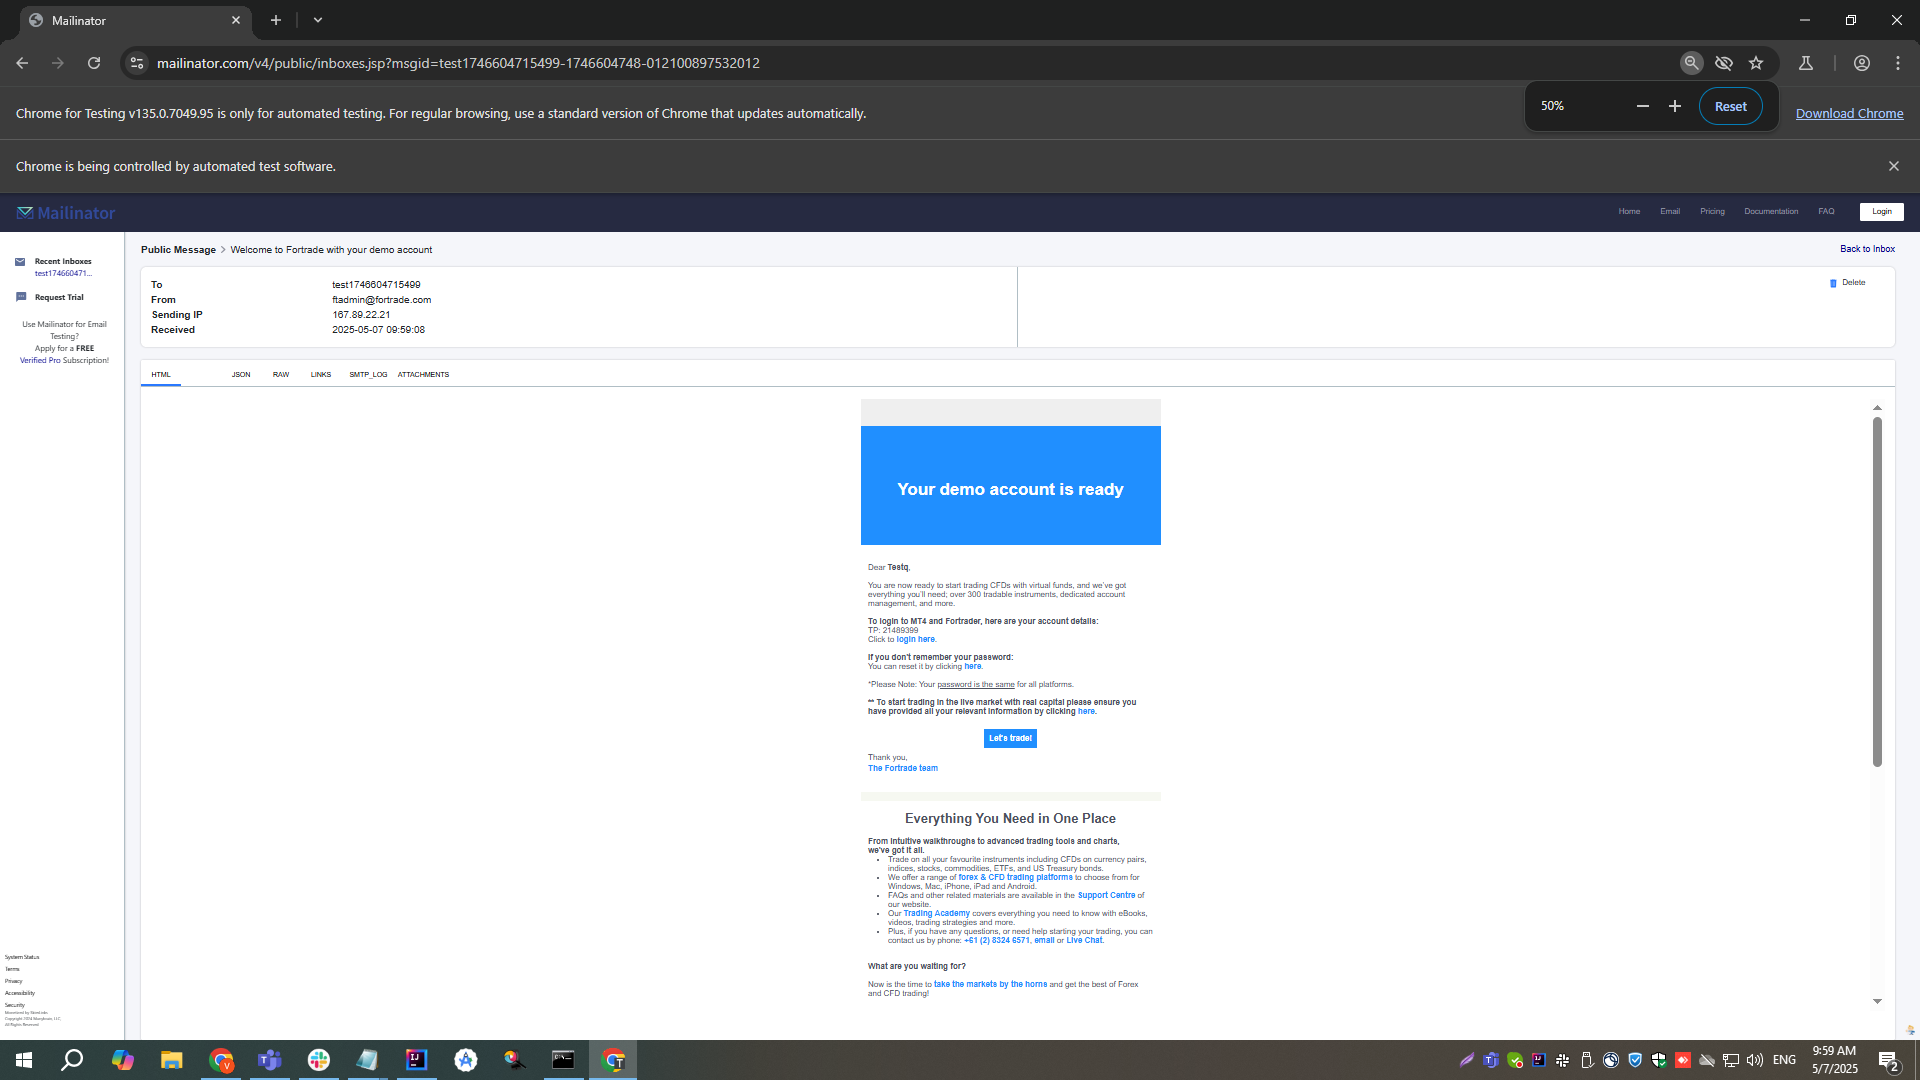
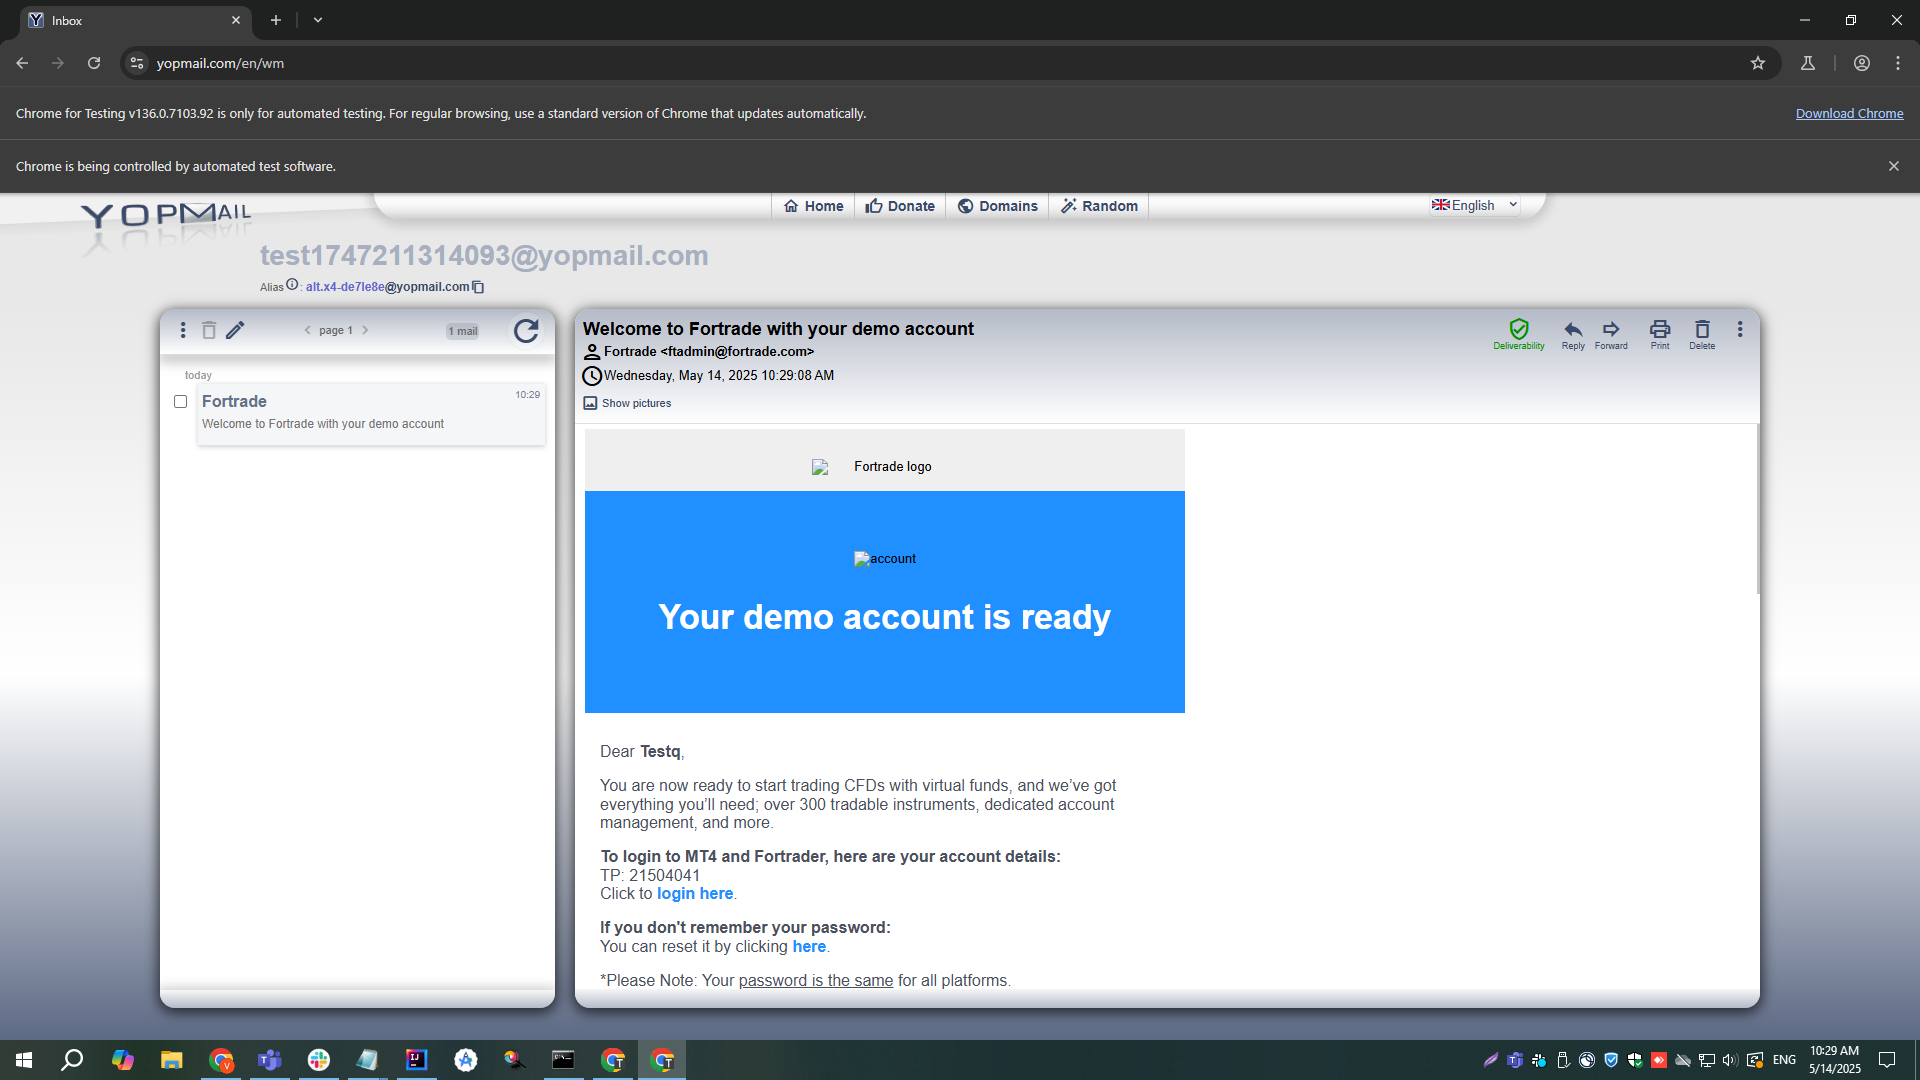
Added yopMailClass and method for checking email (fortrade and fortradeR)

diff --git a/src/main/java/Pages/YopMail.java b/src/main/java/Pages/YopMail.java
@@ -1,8 +1,6 @@
 package Pages;
 
-import org.openqa.selenium.StaleElementReferenceException;
-import org.openqa.selenium.WebDriver;
-import org.openqa.selenium.WebElement;
+import org.openqa.selenium.*;
 import org.openqa.selenium.interactions.Actions;
 import org.openqa.selenium.support.FindBy;
 import org.openqa.selenium.support.PageFactory;
@@ -13,13 +11,15 @@ import org.testng.Assert;
 
 import javax.imageio.ImageIO;
 import java.awt.*;
+import java.awt.Dimension;
+import java.awt.Rectangle;
 import java.awt.event.KeyEvent;
 import java.awt.image.BufferedImage;
 import java.io.File;
 import java.io.IOException;
 import java.time.Duration;
 
-public class MailinatorPage {
+public class YopMail {
     /**
      * PageFactory- koristi se za direktno kreiranje web elemenata. Omogucava nam da sacuvamo veb element bez koricenja
      * chromeDriver.findElement(); Locira elemente na prvi poziv elementa za razliku od chromeDriver.findElement-a koji bi prijavljivao
@@ -31,19 +31,34 @@ public class MailinatorPage {
 
     public WebDriver chromeDriver;
     public WebDriverWait wait;
-    public MailinatorPage(WebDriver chromeDriver) {
+    public YopMail(WebDriver chromeDriver) {
         this.chromeDriver = chromeDriver;
         this.wait = new WebDriverWait(chromeDriver, Duration.ofSeconds(10));
         PageFactory.initElements(chromeDriver,this);
     }
-    @FindBy(xpath = "//input[@id='search']")
+    @FindBy(xpath = "//input[@class='ycptinput']")
     public WebElement search;
 
-    @FindBy(xpath = "//button[contains(text(),'GO')]")
+    @FindBy(xpath = "//div[@id='refreshbut']")
     public WebElement goBtn;
 
-    @FindBy(xpath = "//td[contains(text(),'Fortrade')][1]")
+    @FindBy(xpath = "//iframe[@id='ifinbox']")
+    public WebElement inboxFrame;
+
+    @FindBy(xpath = "//iframe[@id='ifmail']")
+    public WebElement mailFrame;
+
+    @FindBy(xpath = "//div[@class='lmfd']/span[contains(text(), 'Fortrade')]")
     public WebElement emailMessage;
+
+    @FindBy(xpath = "//button[@id='refresh']")
+    public WebElement refreshEmailBtn;
+
+    @FindBy(xpath = "//span[contains(text(), 'Fortrade <ftadmin@fortrade.com>')]")
+    public WebElement fortradeEmail;
+
+    @FindBy(xpath = "//tr/td/b[contains(text(), 'Testq')]")
+    public WebElement testqName;
 
     @FindBy(xpath = "//td[contains(text(),'KapitalRS')][1]")
     public WebElement emailMessageKRS;
@@ -82,13 +97,47 @@ public class MailinatorPage {
         }
     }
 
+    public String getText(WebElement element, String log) {
+        try {
+            wait.until(ExpectedConditions.visibilityOf(element));
+
+            System.out.println("Get text from " + log + " element");
+            return element.getText();
+        } catch (StaleElementReferenceException e) {
+
+            System.out.println("Get text from " + log + " element");
+            return element.getText();
+        }
+    }
+
 
     public void findEmail(String emailValue){
         typeText(search,emailValue,"search input");
-        clickElement(goBtn,"go button");
+        clickElement(goBtn,"go button");/*
         wait.until(ExpectedConditions.visibilityOf(emailMessage));
-        wait.until(ExpectedConditions.elementToBeClickable(emailMessage));
+        wait.until(ExpectedConditions.elementToBeClickable(emailMessage));*/
+        for (int i = 0; i < 3; i++) {
+            try {
+                chromeDriver.switchTo().frame(inboxFrame);
+                //WebElement emailMessage = chromeDriver.findElement(By.xpath("//div[@class='lmfd']/span[contains(text(), 'Fortrade')]"));
+                if (emailMessage.isDisplayed()) {
+                    break; // Exit loop when message appears
+                }
+            } catch (NoSuchElementException e) {
+                // Do nothing — element not yet found
+                if (i==2){
+                    Assert.fail("An email is not found after 3 tries!!!");
+                }
+            }
+
+            chromeDriver.switchTo().defaultContent();
+            clickElement(refreshEmailBtn, "refresh email inbox");
+        }
         clickElement(emailMessage,"received message in mailbox");
+        chromeDriver.switchTo().defaultContent();
+        chromeDriver.switchTo().frame(mailFrame);
+        Assert.assertEquals(getText(fortradeEmail, "getting fortrade email"), "Fortrade <ftadmin@fortrade.com>");
+        Assert.assertEquals(getText(testqName, "getting Testq name"), "Testq");
     }
 
     public void findEmailKRS(String emailValue){

diff --git a/src/test/java/TestsFortradeR/pro_Dark_2024_Lp.java b/src/test/java/TestsFortradeR/pro_Dark_2024_Lp.java
@@ -2,10 +2,7 @@ package TestsFortradeR;
 
 import ConfigureAppium.BaseTest;
 import Faker.TestData;
-import Pages.CrmPage;
-import Pages.FortradeRPage;
-import Pages.HomePage;
-import Pages.MailinatorPage;
+import Pages.*;
 import io.appium.java_client.android.AndroidDriver;
 import io.appium.java_client.screenrecording.CanRecordScreen;
 import org.openqa.selenium.By;
@@ -232,7 +229,8 @@ public class pro_Dark_2024_Lp extends BaseTest {
         fortraderPage.takeScreenshot("Financial Services Commission Mauritius FSC - FortradeR");
     }
 
-    @Test
+    //This method is for Mailinator (now it's not working, so we use Yopmail)
+    /*@Test
     public void emailIsReceivedSuccessfully() throws IOException, AWTException {
         String email = TestData.emailGenerator();
         fortraderPage.accountRegistration("Testq", "Testa", email,
@@ -244,6 +242,21 @@ public class pro_Dark_2024_Lp extends BaseTest {
         mailinator.findEmail(email);
         mailinator.zoomOutMethod();
         mailinator.takeScreenshot("Email is received successfully - FortradeR", mailinator.emailTitle);
+        stopWebBrowser();
+    }*/
+
+    @Test
+    public void emailIsReceivedSuccessfully() throws IOException, AWTException {
+        String email = TestData.emailGenerator();
+        fortraderPage.accountRegistration("Testq", "Testa", email,
+                "381", TestData.numberGenerator(), "25-34", "$15,000-$50,000",
+                "$50,000 – $100,000", "All the above", "Serbian");
+        startChromeBrowserOnDesktop();
+        YopMail yopMail = new YopMail(chromeDriver);
+        chromeDriver.get("https://yopmail.com/en/");
+        yopMail.findEmail(email);
+        yopMail.zoomOutMethod();
+        yopMail.takeScreenshot("Email is received successfully - FortradeR", yopMail.emailTitle);
         stopWebBrowser();
     }
 

diff --git a/src/test/java/TestsFortrade/pro_Dark_2024_Lp.java b/src/test/java/TestsFortrade/pro_Dark_2024_Lp.java
@@ -294,8 +294,9 @@ public class pro_Dark_2024_Lp extends BaseTest {
         fortradePage.assertUrl(fortradePage.fscURL);
         fortradePage.takeScreenshot("Financial Services Commission Mauritius FSC - regulation");
     }
-  
-    @Test
+
+    //This method is for Mailinator (now it's not working, so we use Yopmail)
+    /*@Test
     @Parameters({"regulation", "countryCode"})
     public void emailIsReceivedSuccessfully(String regulation, String countryCode) throws IOException, AWTException {
         String email = TestData.emailGenerator();
@@ -307,6 +308,21 @@ public class pro_Dark_2024_Lp extends BaseTest {
         mailinator.findEmail(email);
         mailinator.zoomOutMethod();
         mailinator.takeScreenshot("Email is received successfully - " + regulation + " regulation", mailinator.emailTitle);
+        stopWebBrowser();
+    }*/
+
+    @Test
+    @Parameters({"regulation", "countryCode"})
+    public void emailIsReceivedSuccessfully(String regulation, String countryCode) throws IOException, AWTException {
+        String email = TestData.emailGenerator();
+        fortradePage.accountRegistration("Testq", "Testa", email, countryCode, TestData.numberGenerator(),
+                "25-34", "$15,000-$50,000", "$50,000 – $100,000", "All the above", "Serbian");
+        startChromeBrowserOnDesktop();
+        YopMail yopMail = new YopMail(chromeDriver);
+        chromeDriver.get("https://yopmail.com/en/");
+        yopMail.findEmail(email);
+        yopMail.zoomOutMethod();
+        yopMail.takeScreenshot("Email is received successfully - " + regulation + " regulation");
         stopWebBrowser();
     }
 

diff --git a/src/test/java/ConfigureAppium/BaseTest.java b/src/test/java/ConfigureAppium/BaseTest.java
@@ -39,7 +39,7 @@ public class BaseTest {
         // Set up capabilities
         UiAutomator2Options options = new UiAutomator2Options();
         options.setCapability("platformName", "Android");
-        options.setCapability("deviceName", "inpb95xslj7p9lpb");
+        options.setCapability("deviceName", "ZY22F7G98K"/*"inpb95xslj7p9lpb"*/);
         options.setCapability("automationName", "UiAutomator2");
         options.setCapability("noReset", true);
         options.setCapability("appium:browserName", "chrome");

diff --git a/src/main/java/Pages/FortradePage.java b/src/main/java/Pages/FortradePage.java
@@ -255,7 +255,7 @@ public class FortradePage extends BasePage {
 
     public void accountRegistration(String firstNameData, String lastNameData, String emailData, String countryCodeData,
                                     String phoneData, String ageData, String annualData, String savingData, String knowledgeData, String selectPLangData) {
-        clickDenyBtn();
+        //clickDenyBtn();
         enterFirstName(firstNameData);
         enterLastName(lastNameData);
         enterEmail(emailData);

diff --git a/src/test/java/Faker/TestData.java b/src/test/java/Faker/TestData.java
@@ -9,7 +9,7 @@ public class TestData {
     }
 
     public static String emailGenerator() {
-        return "test" + System.currentTimeMillis() + "@mailinator.com";
+        return "test" + System.currentTimeMillis() + "@yopmail.com";
     }
 
     public static String numberGenerator() {
